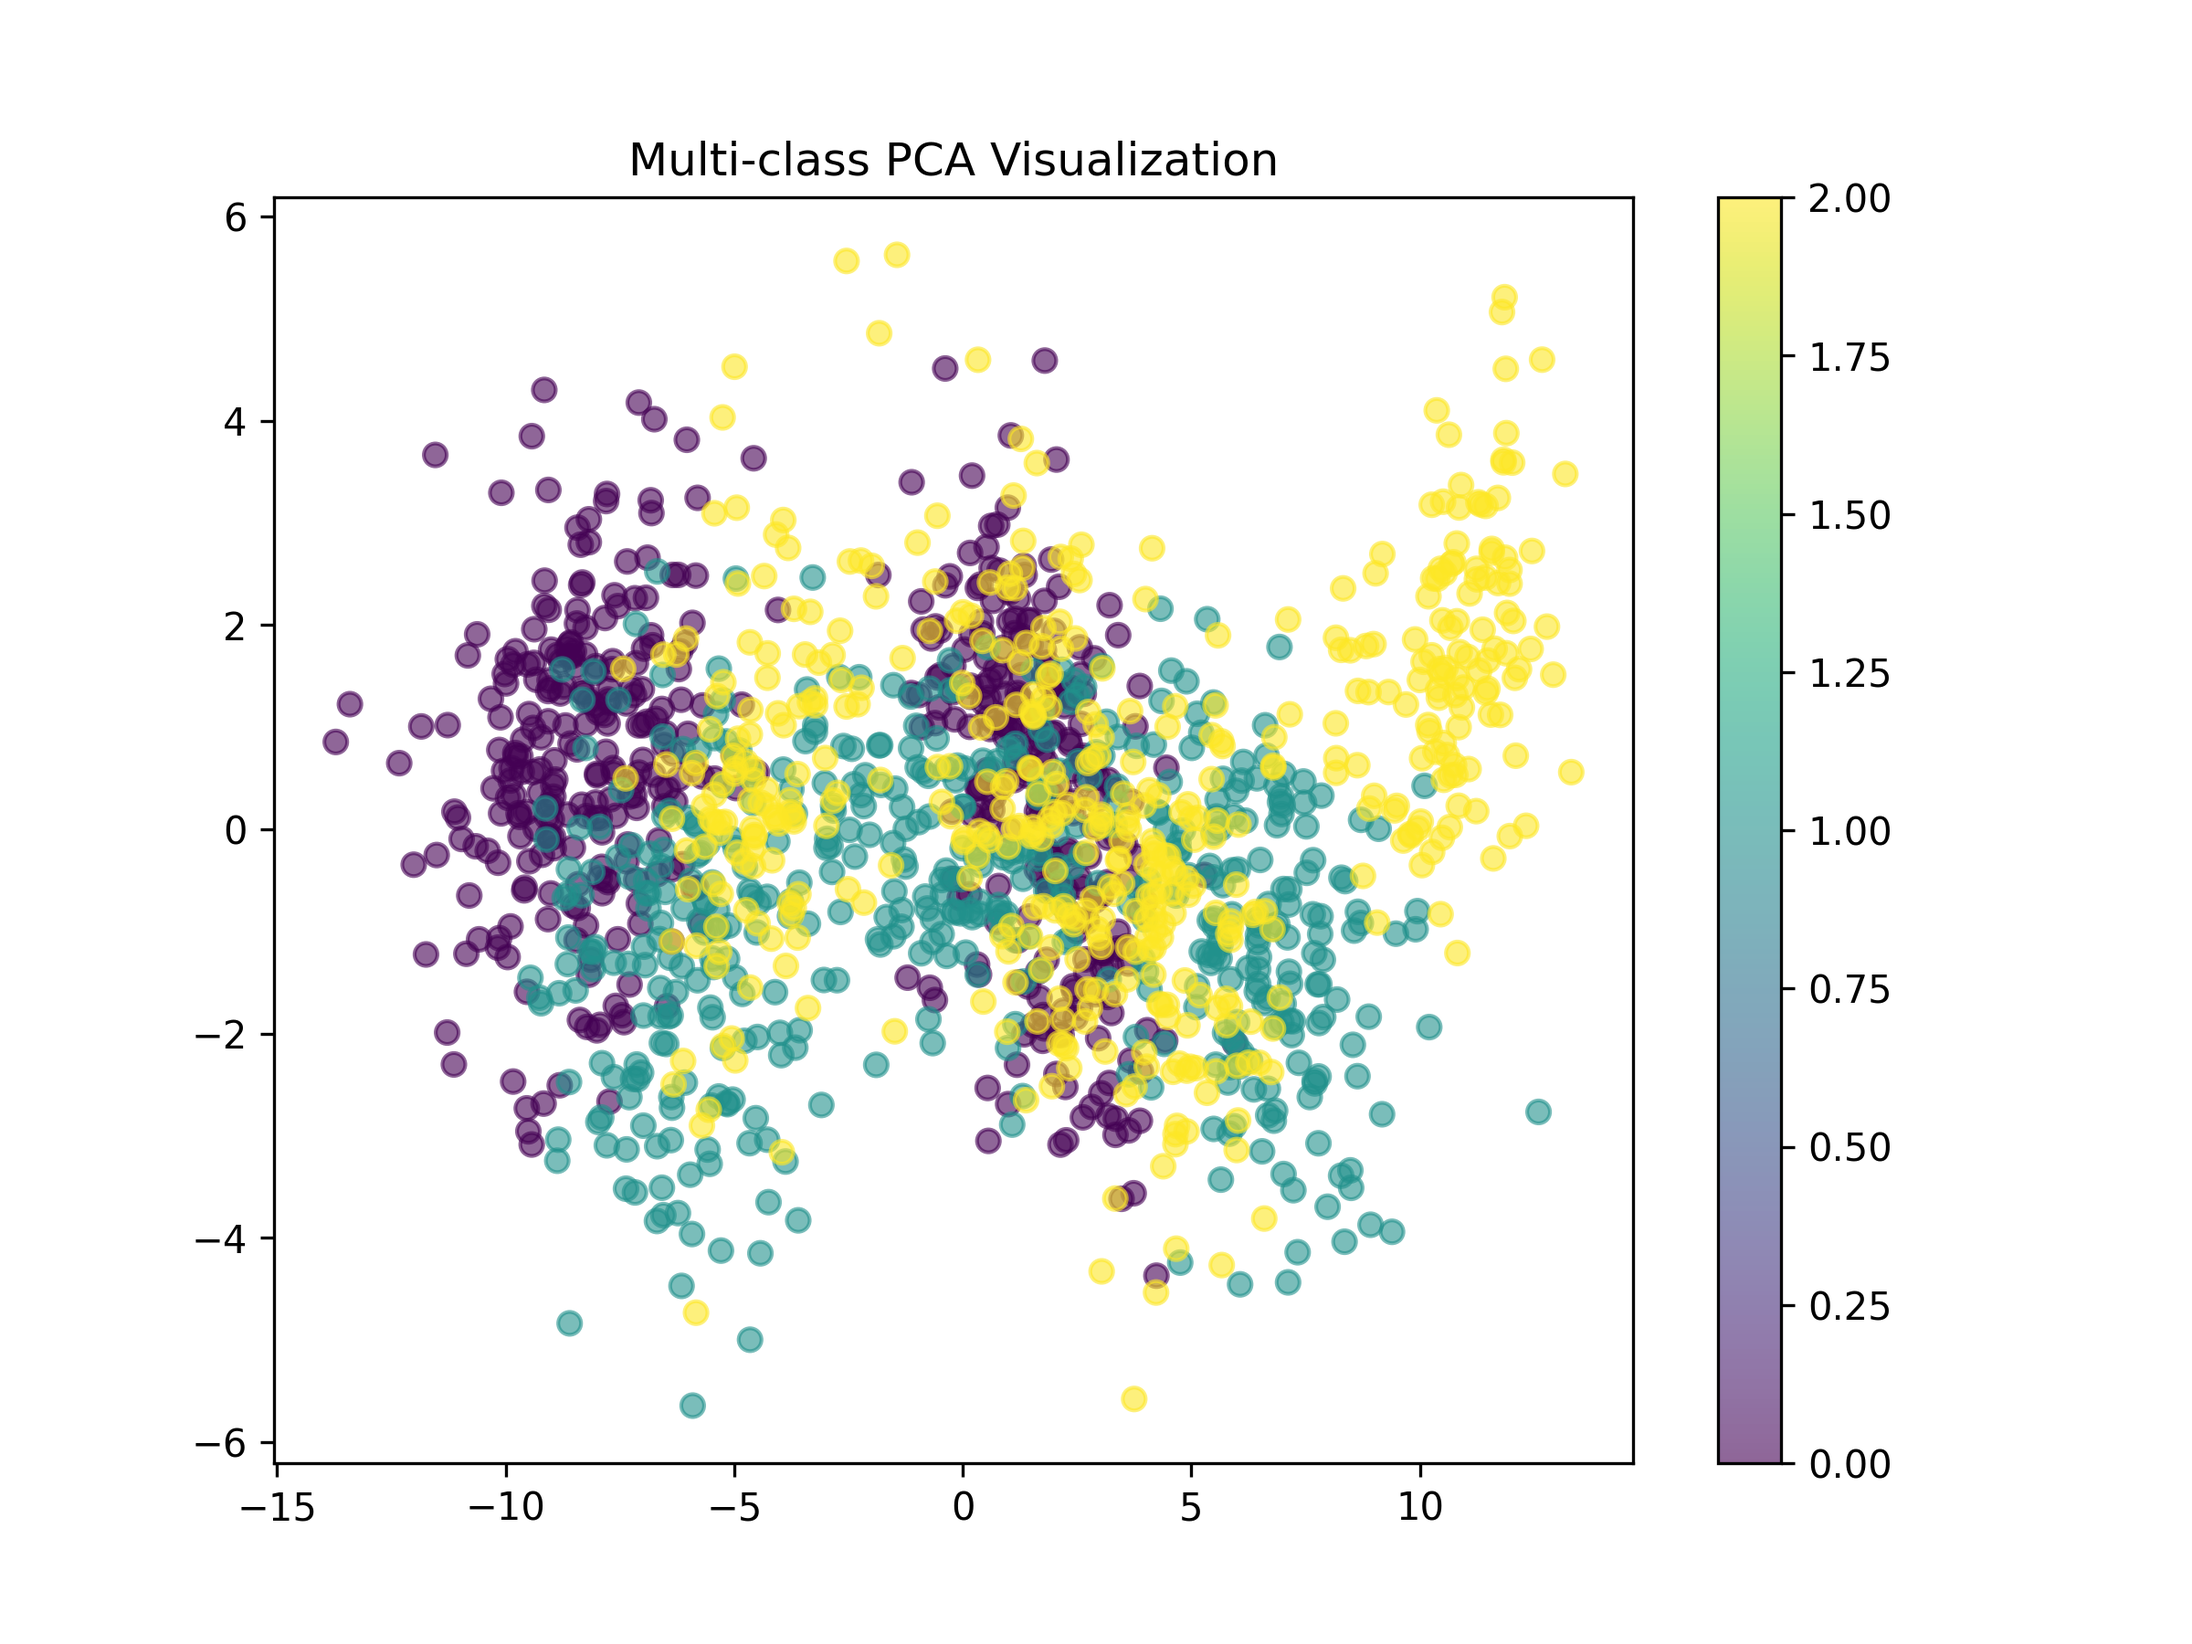
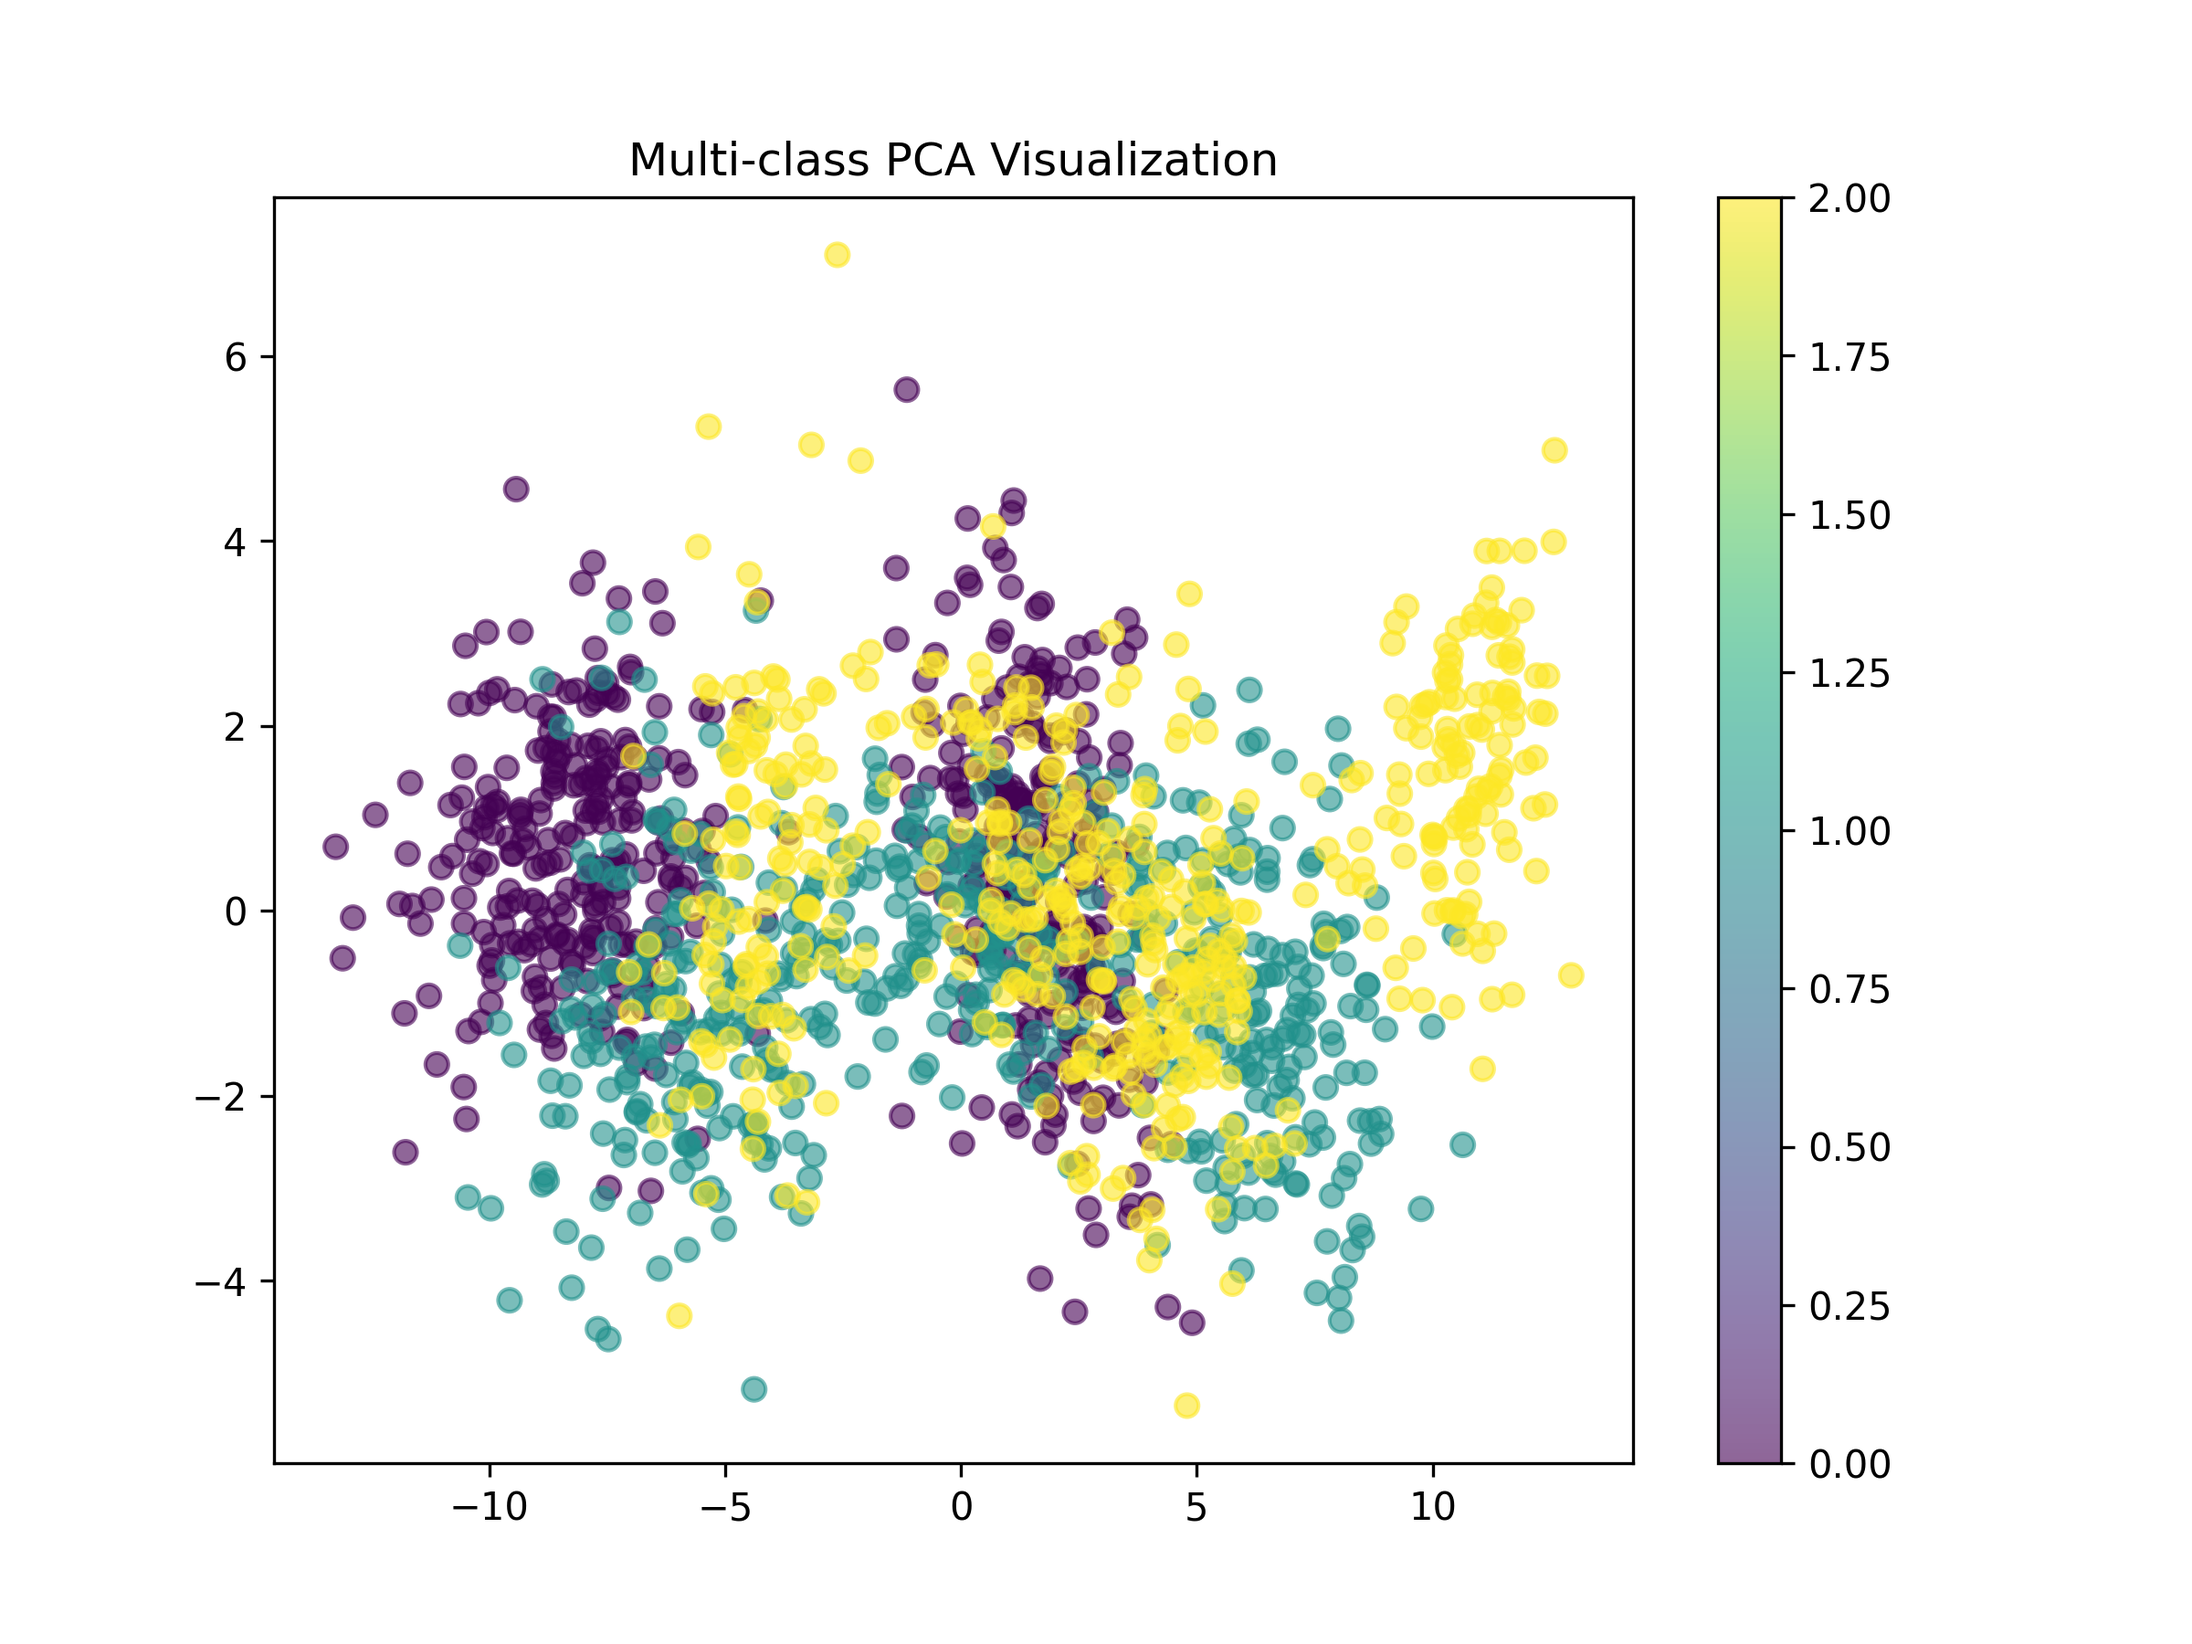
Deployed 4ba31ec with MkDocs version: 1.6.1

diff --git a/studies/3_mlp/main.py b/studies/3_mlp/main.py
@@ -3,11 +3,13 @@ import matplotlib.pyplot as plt
 from pathlib import Path
 import sys
 import os
-
+from experiment_runner import (
+    run_binary_classification,
+    run_multiclass_classification,
+    run_deep_mlp
+)
 # Add the current directory to Python path
 sys.path.append(os.path.dirname(__file__))
-
-from mlp import MLP, generate_synthetic_data
 
 def manual_mlp_calculation():
     x = np.array([0.5, -0.2])
@@ -63,20 +65,13 @@ def run_experiments():
     assets_dir.mkdir(exist_ok=True)
     
     # Experiment 2: Binary Classification
-    X_bin, y_bin = generate_synthetic_data(n_samples=1000, n_classes=2, n_features=2, 
-                                         clusters_per_class=[1, 2], random_state=42)
-    mlp_binary = MLP(input_size=2, hidden_sizes=[4], output_size=1, activation='relu')
-    binary_results = mlp_binary.train(X_bin, y_bin, epochs=100, learning_rate=0.01)
+    binary_results = run_binary_classification()
     
     # Experiment 3: Multi-Class Classification
-    X_multi, y_multi = generate_synthetic_data(n_samples=1500, n_classes=3, n_features=4,
-                                              clusters_per_class=[2, 3, 4], random_state=42)
-    mlp_multi = MLP(input_size=4, hidden_sizes=[4], output_size=3, activation='relu')
-    multi_results = mlp_multi.train(X_multi, y_multi, epochs=100, learning_rate=0.01)
+    multi_results = run_multiclass_classification()
     
     # Experiment 4: Deep MLP
-    mlp_deep = MLP(input_size=4, hidden_sizes=[8, 4], output_size=3, activation='relu')
-    deep_results = mlp_deep.train(X_multi, y_multi, epochs=100, learning_rate=0.01)
+    deep_results = run_deep_mlp()
     
     # Generate plots
     plt.figure(figsize=(10, 6))

diff --git a/studies/3_mlp/experiment_runner.py b/studies/3_mlp/experiment_runner.py
@@ -35,7 +35,7 @@ def run_multiclass_classification():
     X, y = generate_synthetic_data(n_samples=1500, n_classes=3, n_features=4,
                                  clusters_per_class=[2, 3, 4], random_state=42)
     
-    mlp = MLP(input_size=4, hidden_sizes=[4], output_size=3, activation='tanh')
+    mlp = MLP(input_size=4, hidden_sizes=[4], output_size=3, activation='relu')
     results = mlp.train(X, y, epochs=100, learning_rate=0.01)
     
     # Generate PCA visualization
